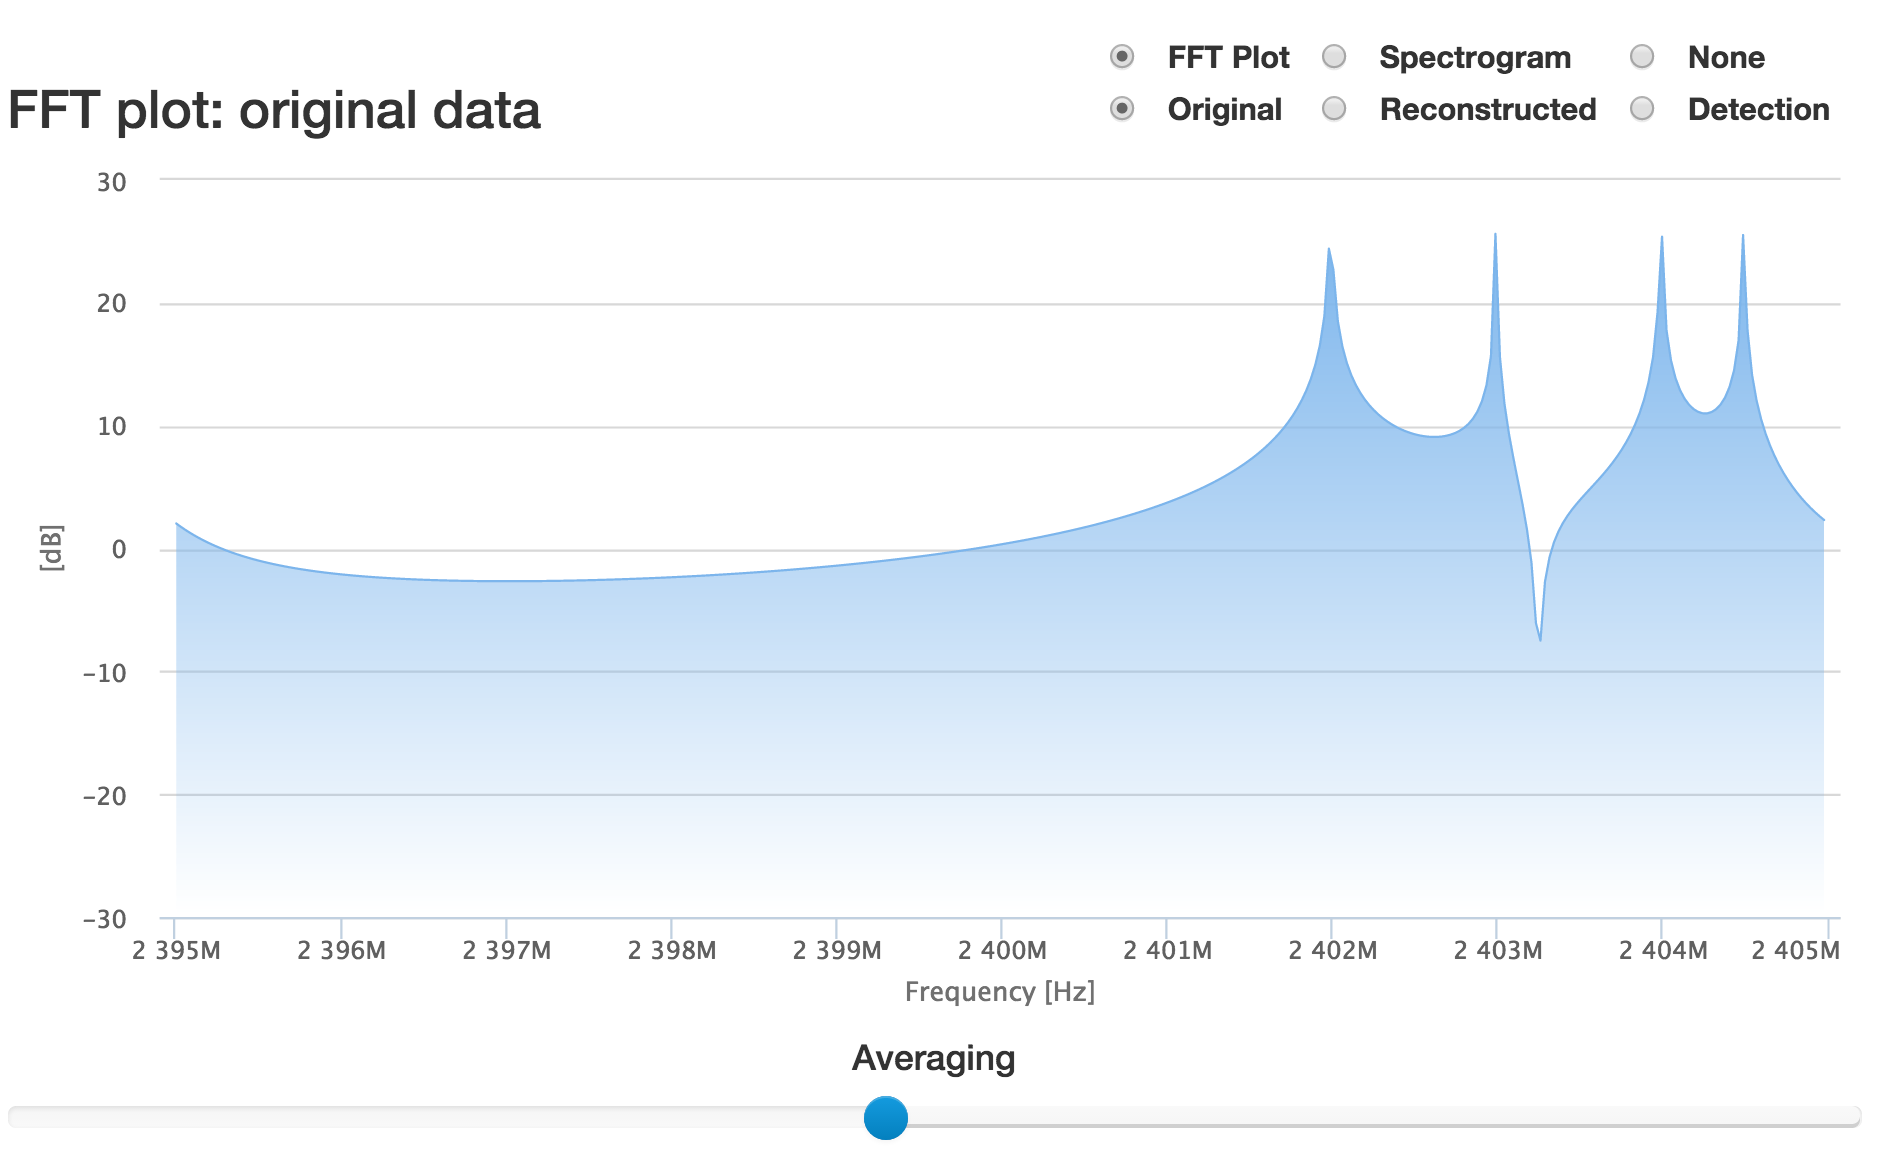
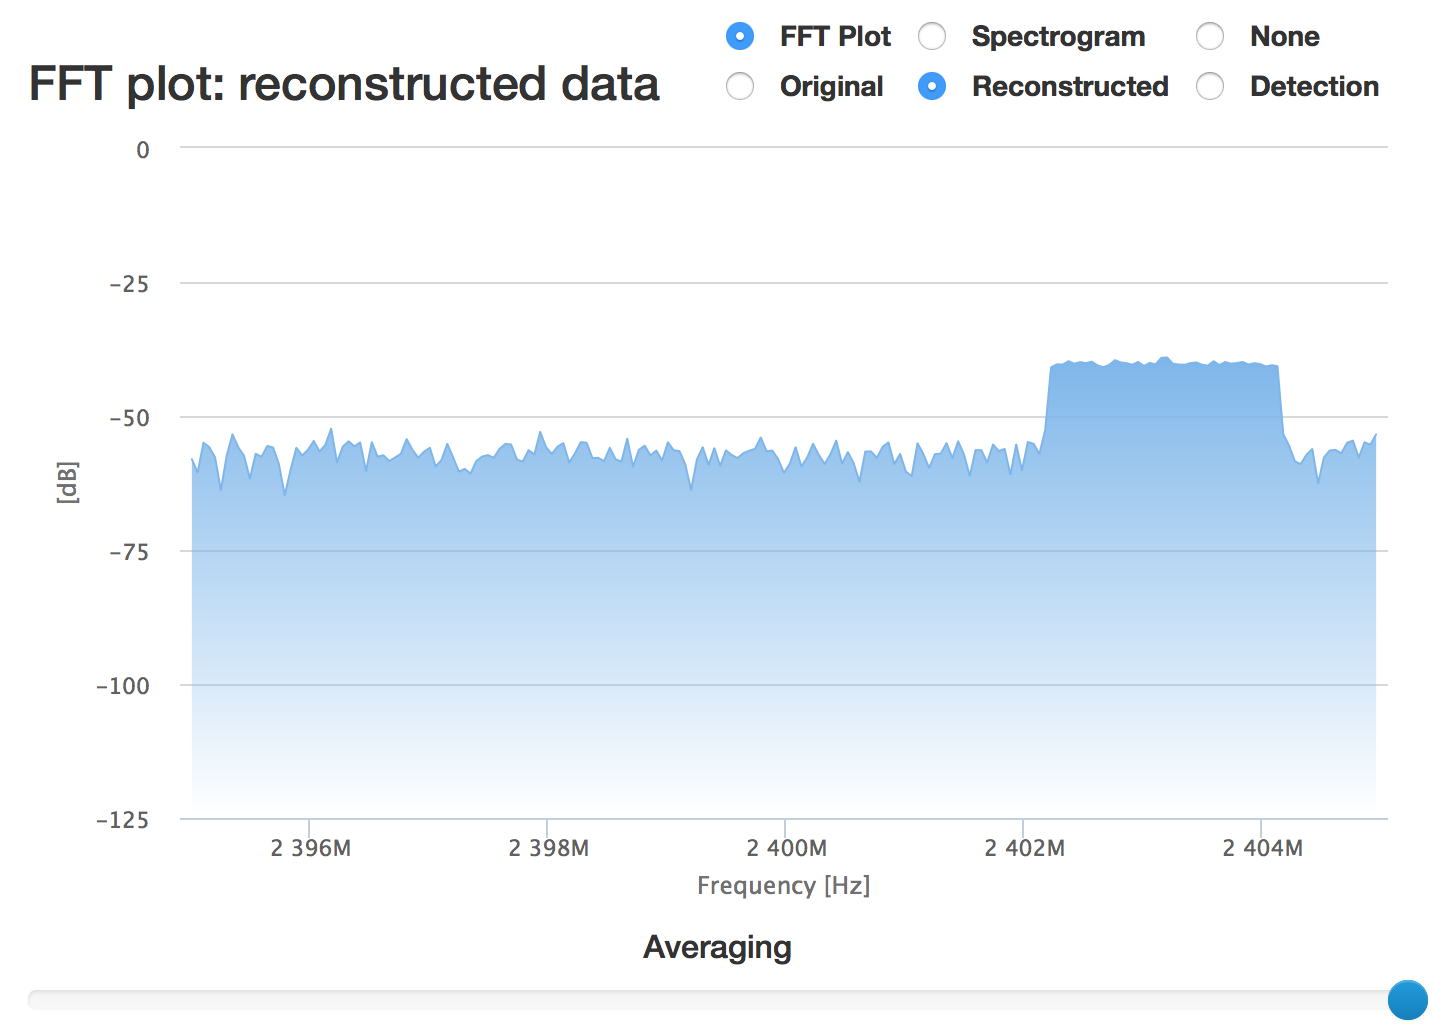
Plaatjes view aangepast

diff --git a/src/run.py b/src/run.py
@@ -52,7 +52,7 @@ if source_type == "usrp":
 elif source_type == "dump":
     source = sc.source.File(dump_file_path)
 elif source_type == "sinusoidal":
-    source = sc.source.Sinusoidal(frequencies, sample_freq, SNR=source_snr)
+    source = sc.source.ComplexExponential(frequencies, sample_freq, SNR=source_snr)
 
 
 # sampler = sc.sampling.Coprime(a, b)
@@ -61,7 +61,9 @@ sampler = sc.sampling.MinimalSparseRuler(N)
 reconstructor = sc.reconstruction.Wessel(L, sampler.get_C())
 # reconstructor = sc.reconstruction.CrossCorrelation(L, C=sampler.get_C())
 
-detector = sc.detection.Ariananda(L, upscale_factor, sampler.get_C(), reconstructor.get_R(), reconstructor.filter_cross_correlation())
+#detector = sc.detection.Ariananda(L, upscale_factor, sampler.get_C(), reconstructor.get_R(), reconstructor.filter_cross_correlation())
+detector = sc.detection.noise_power()
+
 
 # Init queues
 signal_queue = ss.multiprocessing.SafeQueue()

diff --git a/doc/thesis/implementation/view/view.tex b/doc/thesis/implementation/view/view.tex
@@ -100,6 +100,13 @@ For rendering a web page, like the front-end, \lib{Flask} makes use of yet anoth
     \label{fig:spectrogram_element}
 \end{figure}
 
+\begin{figure}[H]
+    \centering
+    \includegraphics[width=\textwidth]{detection.png}
+    \caption{Detection Visualisation Element}
+    \label{fig:detection_element}
+\end{figure}
+
 \end{description}
 
 Each of the elements consists of server-side and client-side logic, which is written in Python and JavaScript, respectively. The server-side logic consists of a class that contains some of the element's properties, like a unique ID, title and a reference to a \lib{Jinja2} template as previously described, that is rendered whenever the element is used (when the client requests the web application). The client-side logic is a JavaScript object that defines the element's dynamical behaviour, such as handling user-input and/or server-sent updates.
